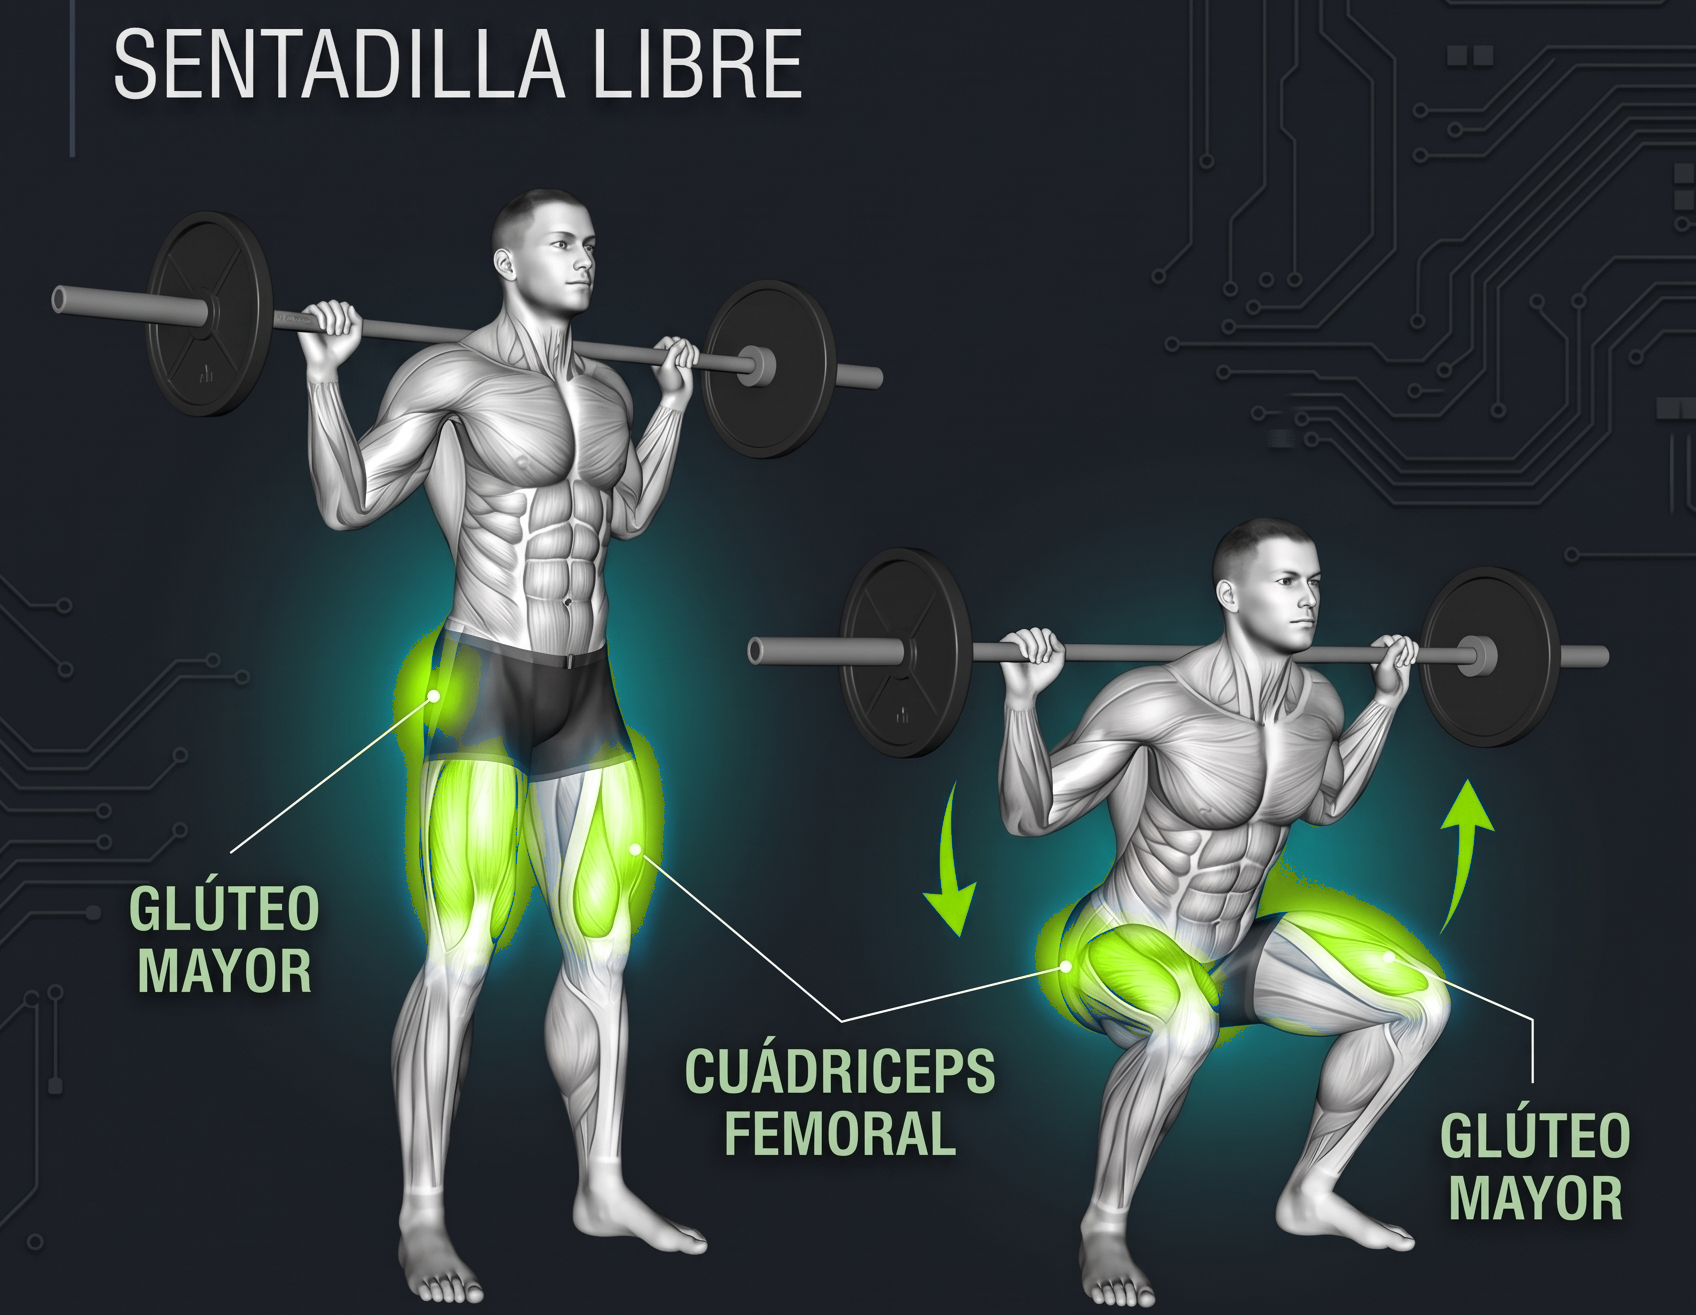
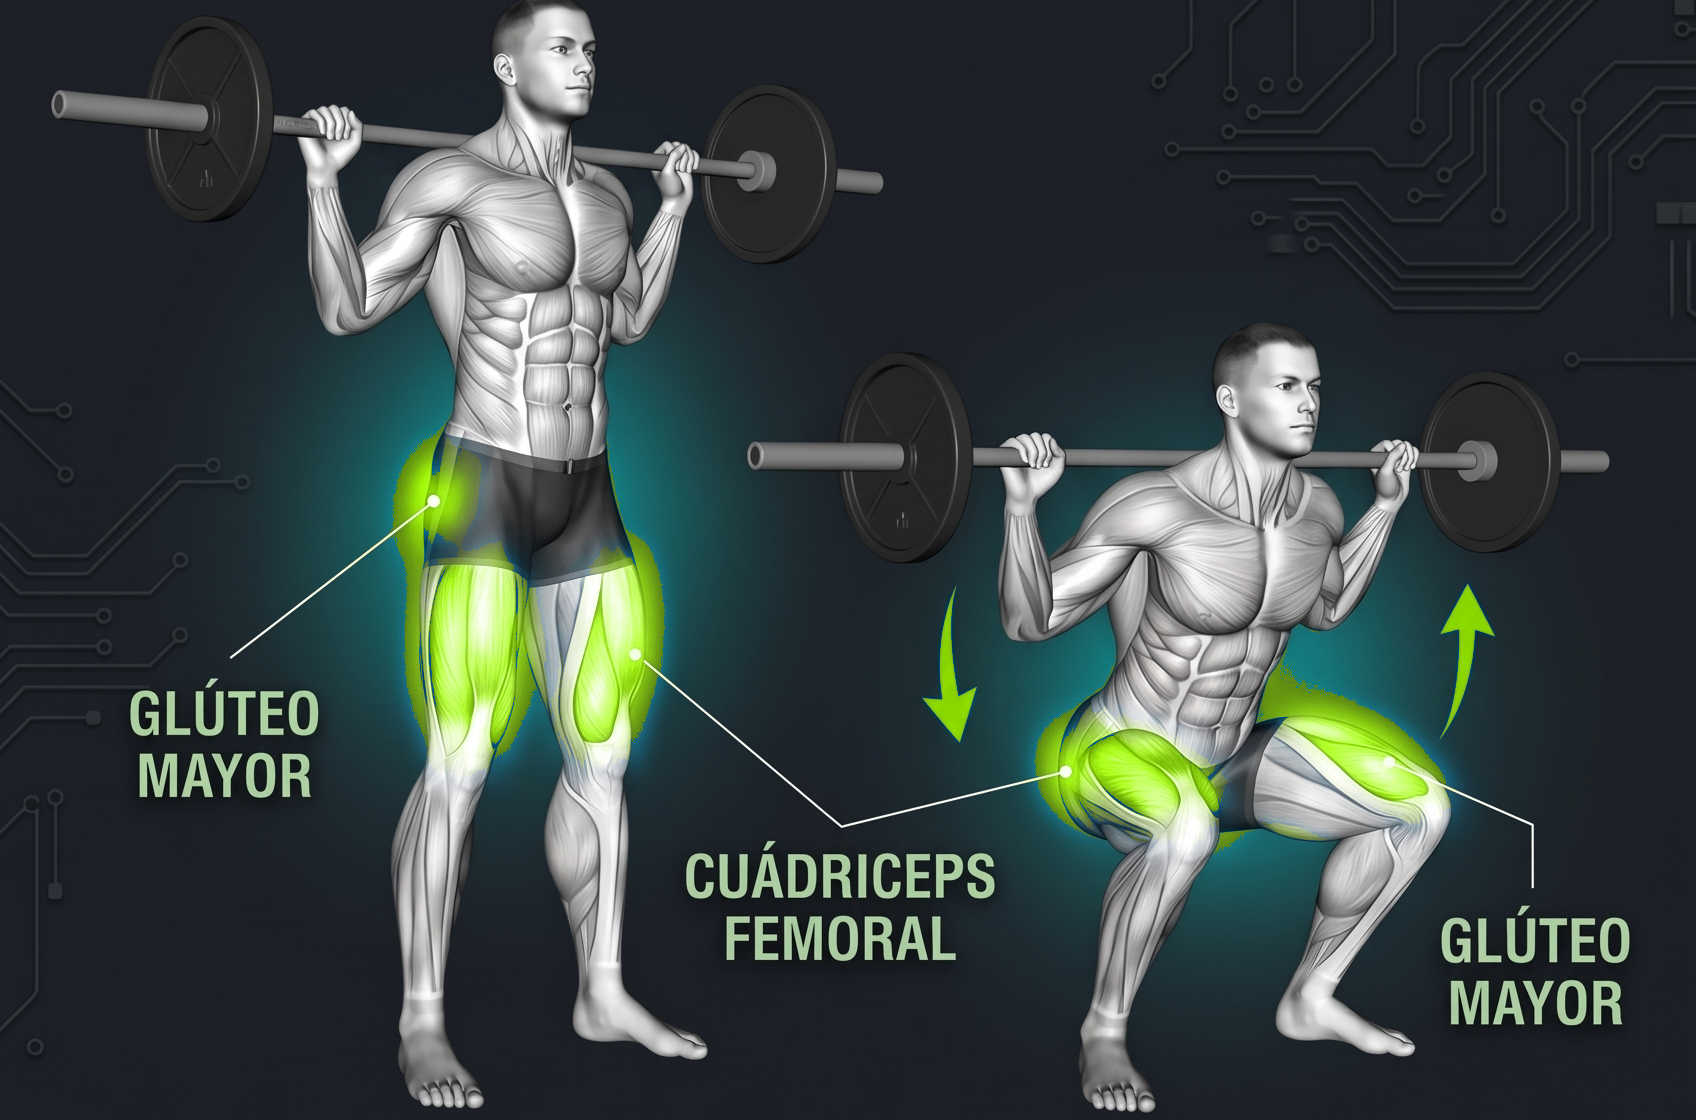
fix: causa raiz del recorte de cabezas -- object-cover a object-contain
El usuario reporto una cabeza cortada en "Extension de cuadriceps"; al
investigar, el problema real no era esa imagen puntual sino el CSS del
modal de "Explicacion del ejercicio": usaba object-cover con una posicion
fija (center 22%) que recorta distinto segun la geometria de cada imagen.
Confirmado con "Sentadilla con barra" (imagen ancha, dos figuras a distinta
altura): el recorte cortaba la cabeza de la segunda figura por completo.

Cambio a object-contain: la imagen COMPLETA siempre es visible (con margen
del color de fondo si sobra espacio), sin importar su geometria -- elimina
esta clase de bug de raiz en vez de ajustar el recorte imagen por imagen.

De paso, revisando "todas las imagenes" como pidio el usuario:
- Se quito el titulo "SENTADILLA LIBRE" horneado en sentadilla-barra.png
  (redundante con el titulo real que ya muestra el modal). El de
  peso-muerto-barra.png se deja intacto: su titulo se solapa en altura con
  la cabeza de una figura, recortarlo arriesgaba cortar la cabeza.
- 4 ejercicios (press_banco_mancuernas, crossover_polea_alta,
  jalon_pecho_cerrado_neutro, elevaciones_laterales_mancuernas) tenian
  `guia` agregada ayer pero su imagen vieja mezcla texto e ilustracion en
  el mismo layout (no se puede recortar solo la ilustracion) -- se les quito
  `guia` para que no dupliquen las indicaciones ya dibujadas en la imagen,
  hasta que tengan su ilustracion nueva.

diff --git a/lib/routine.ts b/lib/routine.ts
@@ -335,15 +335,12 @@ const CATALOGO: Record<string, Ejercicio> = {
   } },
   elevacion_piernas: { id: 'elevacion_piernas', nombre: 'Elevación de piernas', grupo: 'Abdomen', grupoMuscular: 'core', imagenExplicacion: '/explicaciones/elevacion-piernas.jpg', series: 4, reps: '10-12', descansoSeg: 45, tempo: '2-1-1', alternativaId: 'plancha_abdominal' },
 
-  press_banco_mancuernas: { id: 'press_banco_mancuernas', nombre: 'Press de banco plano con mancuernas', grupo: 'Pecho', grupoMuscular: 'pecho', imagenExplicacion: '/explicaciones/press-banco-mancuernas.jpg', series: 4, reps: '10-12', descansoSeg: 90, tempo: '3-1-1', alternativaId: 'press_inclinado_mancuerna', guia: {
-    indicaciones: [
-      'Acuéstate en el banco plano con una mancuerna en cada mano.',
-      'Baja las mancuernas a los costados del pecho con los codos a 45° respecto al torso.',
-      'Empuja hacia arriba sin bloquear los codos al extender.',
-    ],
-    musculos: [{ nombre: 'Pectoral', principal: true }, { nombre: 'Tríceps', principal: false }],
-    consejoTecnico: 'Codos a 45 grados respecto al torso, no pegados ni muy abiertos.',
-  } },
+  // Sin `guia` a propósito (15/09/2026): la imagen vieja de este ejercicio
+  // mezcla texto e ilustración en el mismo layout (no se puede recortar solo
+  // la ilustración sin cortar contenido real) — mostrar `guia` en vivo
+  // duplicaría las indicaciones que ya están dibujadas dentro de la imagen.
+  // Se agrega `guia` cuando llegue la ilustración nueva (ver ESTADO.md).
+  press_banco_mancuernas: { id: 'press_banco_mancuernas', nombre: 'Press de banco plano con mancuernas', grupo: 'Pecho', grupoMuscular: 'pecho', imagenExplicacion: '/explicaciones/press-banco-mancuernas.jpg', series: 4, reps: '10-12', descansoSeg: 90, tempo: '3-1-1', alternativaId: 'press_inclinado_mancuerna' },
   press_inclinado_mancuerna: { id: 'press_inclinado_mancuerna', nombre: 'Press inclinado con mancuerna', grupo: 'Pecho', grupoMuscular: 'pecho', imagenExplicacion: '/explicaciones/press-inclinado-mancuerna.png', series: 4, reps: '10-12', descansoSeg: 90, tempo: '3-1-1', alternativaId: 'press_banco_mancuernas', guia: {
     indicaciones: [
       'Ajusta el respaldo del banco entre 30 y 45 grados.',
@@ -362,15 +359,8 @@ const CATALOGO: Record<string, Ejercicio> = {
     musculos: [{ nombre: 'Pectoral', principal: true }],
     consejoTecnico: 'Controla el retorno para no forzar la articulación del hombro.',
   } },
-  crossover_polea_alta: { id: 'crossover_polea_alta', nombre: 'Crossover en polea alta', grupo: 'Pecho', grupoMuscular: 'pecho', imagenExplicacion: '/explicaciones/crossover-polea-alta.jpg', series: 4, reps: '10-12', descansoSeg: 60, tempo: '2-1-1', alternativaId: 'aperturas_maquina', guia: {
-    indicaciones: [
-      'De pie en el centro de la máquina, un pie adelantado para estabilidad.',
-      'Con los codos semi flexionados, cruza las manos al centro del cuerpo.',
-      'Regresa controladamente hasta sentir el estiramiento del pectoral.',
-    ],
-    musculos: [{ nombre: 'Pectoral', principal: true }],
-    consejoTecnico: 'Postura adelantada, codos semi flexionados, cruce al centro.',
-  } },
+  // Sin `guia` a propósito — mismo motivo que press_banco_mancuernas arriba.
+  crossover_polea_alta: { id: 'crossover_polea_alta', nombre: 'Crossover en polea alta', grupo: 'Pecho', grupoMuscular: 'pecho', imagenExplicacion: '/explicaciones/crossover-polea-alta.jpg', series: 4, reps: '10-12', descansoSeg: 60, tempo: '2-1-1', alternativaId: 'aperturas_maquina' },
   press_frances_barra_z: { id: 'press_frances_barra_z', nombre: 'Press francés con barra Z', grupo: 'Tríceps', grupoMuscular: 'triceps', imagenExplicacion: '/explicaciones/press-frances-barra-z.png', series: 4, reps: '10-12', descansoSeg: 60, tempo: '2-1-1', alternativaId: 'extension_triceps_copa', guia: {
     indicaciones: [
       'Acostado en el banco, sujeta la barra Z con agarre cerrado sobre el pecho.',
@@ -426,15 +416,8 @@ const CATALOGO: Record<string, Ejercicio> = {
     musculos: [{ nombre: 'Dorsales', principal: true }, { nombre: 'Trapecio medio', principal: false }],
     consejoTecnico: 'Pecho apoyado, juntar omóplatos al final del recorrido.',
   } },
-  jalon_pecho_cerrado_neutro: { id: 'jalon_pecho_cerrado_neutro', nombre: 'Jalón de pecho cerrado neutro', grupo: 'Espalda', grupoMuscular: 'dorsal', imagenExplicacion: '/explicaciones/jalon-pecho-cerrado-neutro.jpg', series: 4, reps: '10-12', descansoSeg: 75, tempo: '3-1-1', alternativaId: 'jalon_pecho', guia: {
-    indicaciones: [
-      'Sujeta la barra en V o agarre neutro, siéntate con las rodillas fijas.',
-      'Jala hacia el pecho superior manteniendo los codos pegados al cuerpo.',
-      'Sube controladamente hasta extender los brazos.',
-    ],
-    musculos: [{ nombre: 'Dorsal ancho', principal: true }, { nombre: 'Bíceps', principal: false }],
-    consejoTecnico: 'Jalar hacia el pecho superior manteniendo los codos pegados.',
-  } },
+  // Sin `guia` a propósito — mismo motivo que press_banco_mancuernas arriba.
+  jalon_pecho_cerrado_neutro: { id: 'jalon_pecho_cerrado_neutro', nombre: 'Jalón de pecho cerrado neutro', grupo: 'Espalda', grupoMuscular: 'dorsal', imagenExplicacion: '/explicaciones/jalon-pecho-cerrado-neutro.jpg', series: 4, reps: '10-12', descansoSeg: 75, tempo: '3-1-1', alternativaId: 'jalon_pecho' },
   curl_barra: { id: 'curl_barra', nombre: 'Curl con barra', grupo: 'Bíceps', grupoMuscular: 'biceps', imagenExplicacion: '/explicaciones/curl-barra.png', series: 4, reps: '10-12', descansoSeg: 60, tempo: '2-1-1', alternativaId: 'curl_supinacion_maquina', guia: {
     indicaciones: [
       'De pie, sujeta la barra con agarre supino a la anchura de los hombros.',
@@ -462,15 +445,8 @@ const CATALOGO: Record<string, Ejercicio> = {
     musculos: [{ nombre: 'Deltoides posterior', principal: true }],
     consejoTecnico: 'Torso inclinado, enfoque en el deltoide posterior, no en subir el peso rápido.',
   } },
-  elevaciones_laterales_mancuernas: { id: 'elevaciones_laterales_mancuernas', nombre: 'Elevaciones laterales con mancuernas', grupo: 'Hombro', grupoMuscular: 'hombro', imagenExplicacion: '/explicaciones/elevaciones-laterales-mancuernas.jpg', series: 4, reps: '10-12', descansoSeg: 60, tempo: '2-1-1', alternativaId: 'pajaros_pie_mancuerna', guia: {
-    indicaciones: [
-      'De pie, sujeta una mancuerna en cada mano a los costados.',
-      'Eleva los brazos hacia los lados hasta la altura de los hombros.',
-      'Baja controladamente sin usar impulso del cuerpo.',
-    ],
-    musculos: [{ nombre: 'Deltoides lateral', principal: true }],
-    consejoTecnico: 'Ligera flexión de codos, sin usar impulso del cuerpo para levantar el peso.',
-  } },
+  // Sin `guia` a propósito — mismo motivo que press_banco_mancuernas arriba.
+  elevaciones_laterales_mancuernas: { id: 'elevaciones_laterales_mancuernas', nombre: 'Elevaciones laterales con mancuernas', grupo: 'Hombro', grupoMuscular: 'hombro', imagenExplicacion: '/explicaciones/elevaciones-laterales-mancuernas.jpg', series: 4, reps: '10-12', descansoSeg: 60, tempo: '2-1-1', alternativaId: 'pajaros_pie_mancuerna' },
   plancha_abdominal: { id: 'plancha_abdominal', nombre: 'Plancha abdominal', grupo: 'Abdomen', grupoMuscular: 'core', imagenExplicacion: '/explicaciones/plancha-abdominal.png', series: 3, reps: '30-60 seg', descansoSeg: 45, tempo: 'isométrico', alternativaId: 'crunch_lateral_inclinado', guia: {
     indicaciones: [
       'Apoya antebrazos y puntas de los pies en el suelo, cuerpo alineado de cabeza a talones.',

diff --git a/app/app/page.tsx b/app/app/page.tsx
@@ -1153,7 +1153,14 @@ function PlanDelDia({
                         <img
                           src={ej.imagenExplicacion}
                           alt={`Explicación del ejercicio ${ej.nombre}`}
-                          className="size-full object-cover object-[center_22%]"
+                          // object-contain (no object-cover): pedido explícito y repetido del
+                          // usuario en toda la sesión de ilustraciones — nunca se corta ninguna
+                          // parte del cuerpo del deportista. object-cover con una posición fija
+                          // (antes "center 22%") recortaba distinto según la geometría de cada
+                          // imagen (encontrado con "Sentadilla con barra": cortaba la cabeza de
+                          // la segunda figura). Con contain la imagen completa siempre es
+                          // visible, con un margen del mismo color de fondo si sobra espacio.
+                          className="size-full object-contain"
                         />
                       )}
                     </div>
